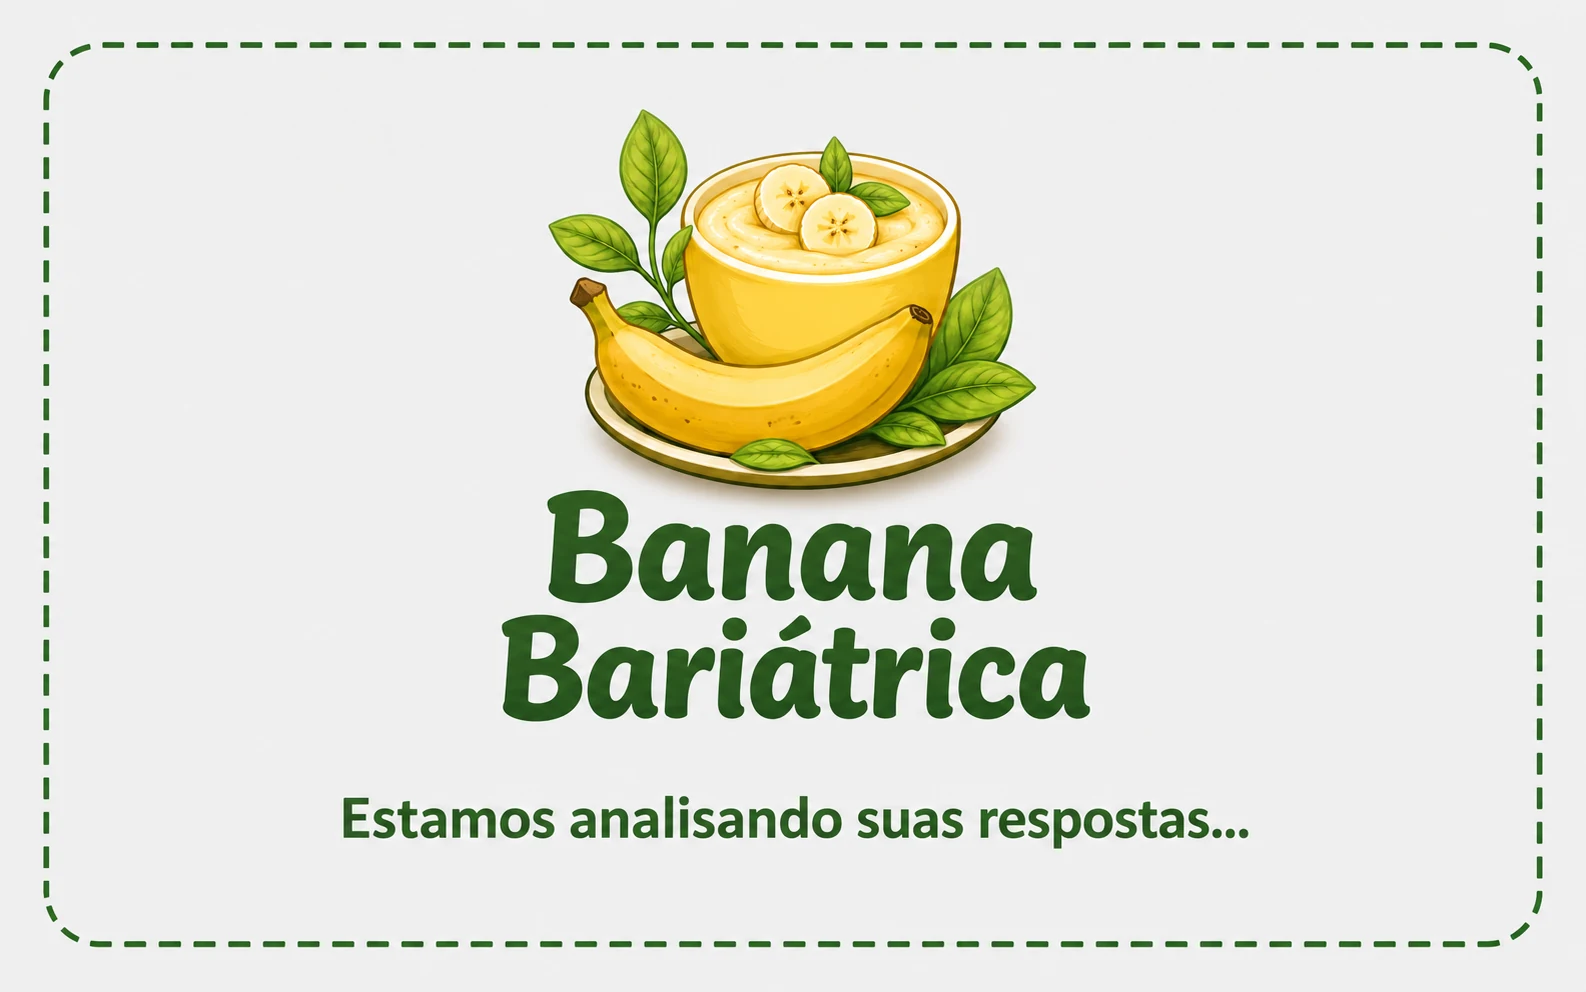
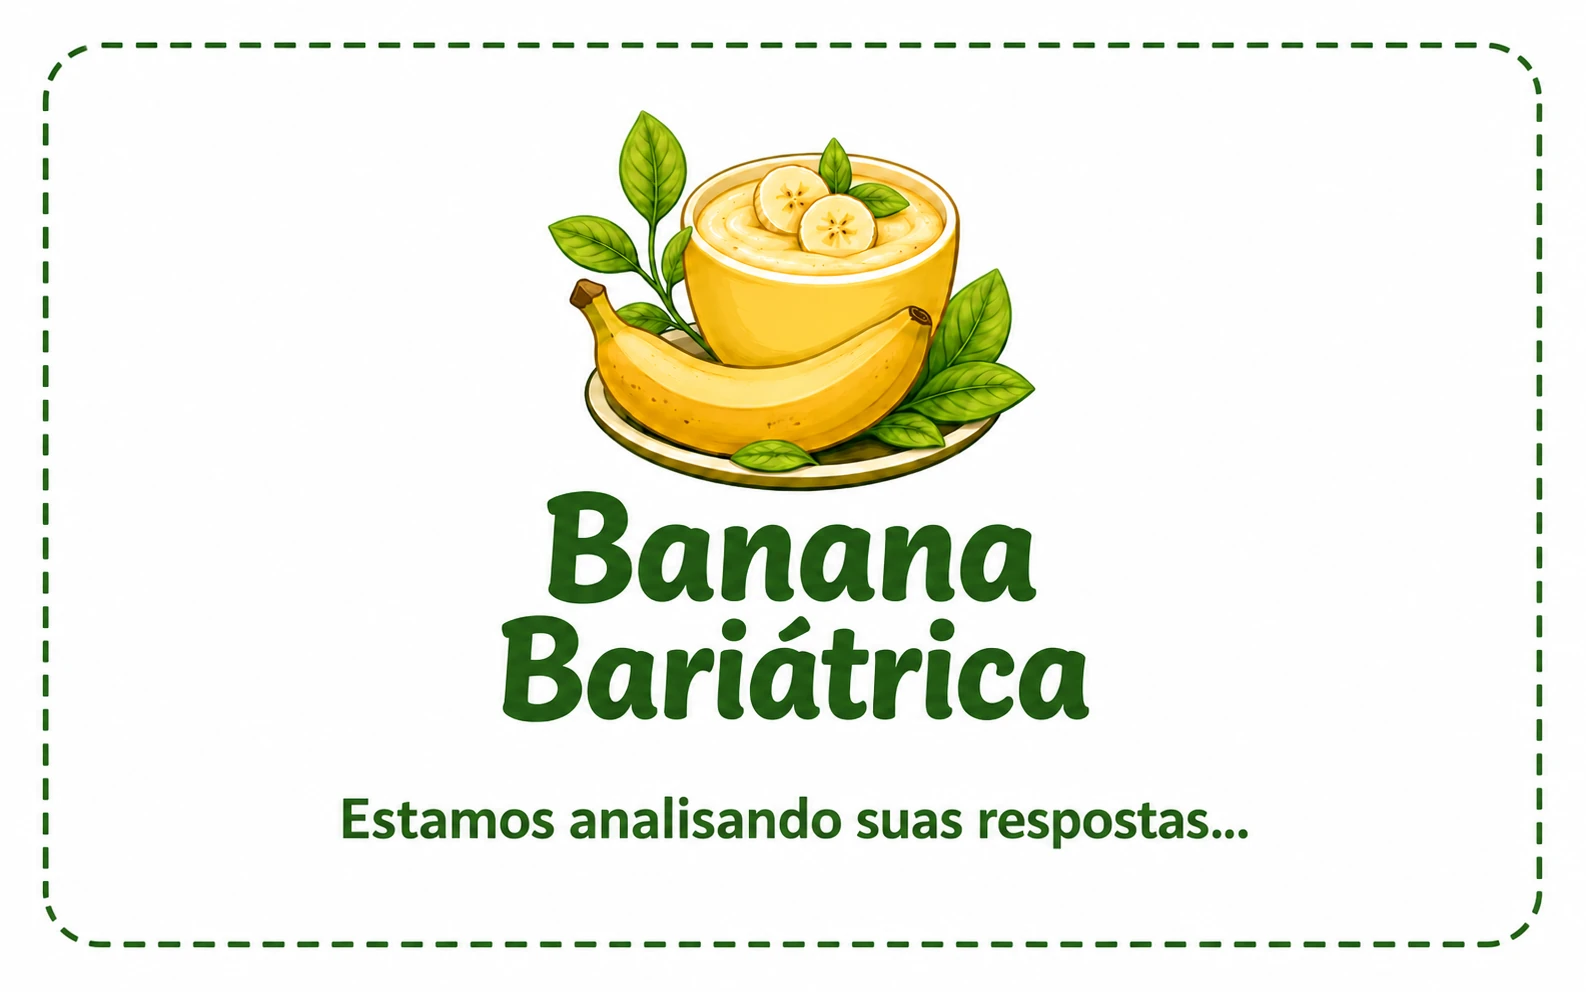
Replace loading creative with white background version

diff --git a/index.html b/index.html
@@ -23,7 +23,7 @@
     <script defer src="https://cdn.jsdelivr.net/npm/@supabase/supabase-js@2"></script>
     <script defer src="supabase-config.js?v=supabase-1"></script>
     <script defer src="supabase-tracking.js?v=supabase-1"></script>
-    <script defer src="quiz-data.js?v=favicon-1"></script>
-    <script defer src="script.js?v=favicon-1"></script>
+    <script defer src="quiz-data.js?v=loading-white-1"></script>
+    <script defer src="script.js?v=loading-white-1"></script>
   </body>
 </html>

diff --git a/sw.js b/sw.js
@@ -1,4 +1,4 @@
-const CACHE_NAME = "quiz-emagrecimento-v15";
+const CACHE_NAME = "quiz-emagrecimento-v16";
 const STATIC_ASSETS = [
   "./",
   "./index.html",